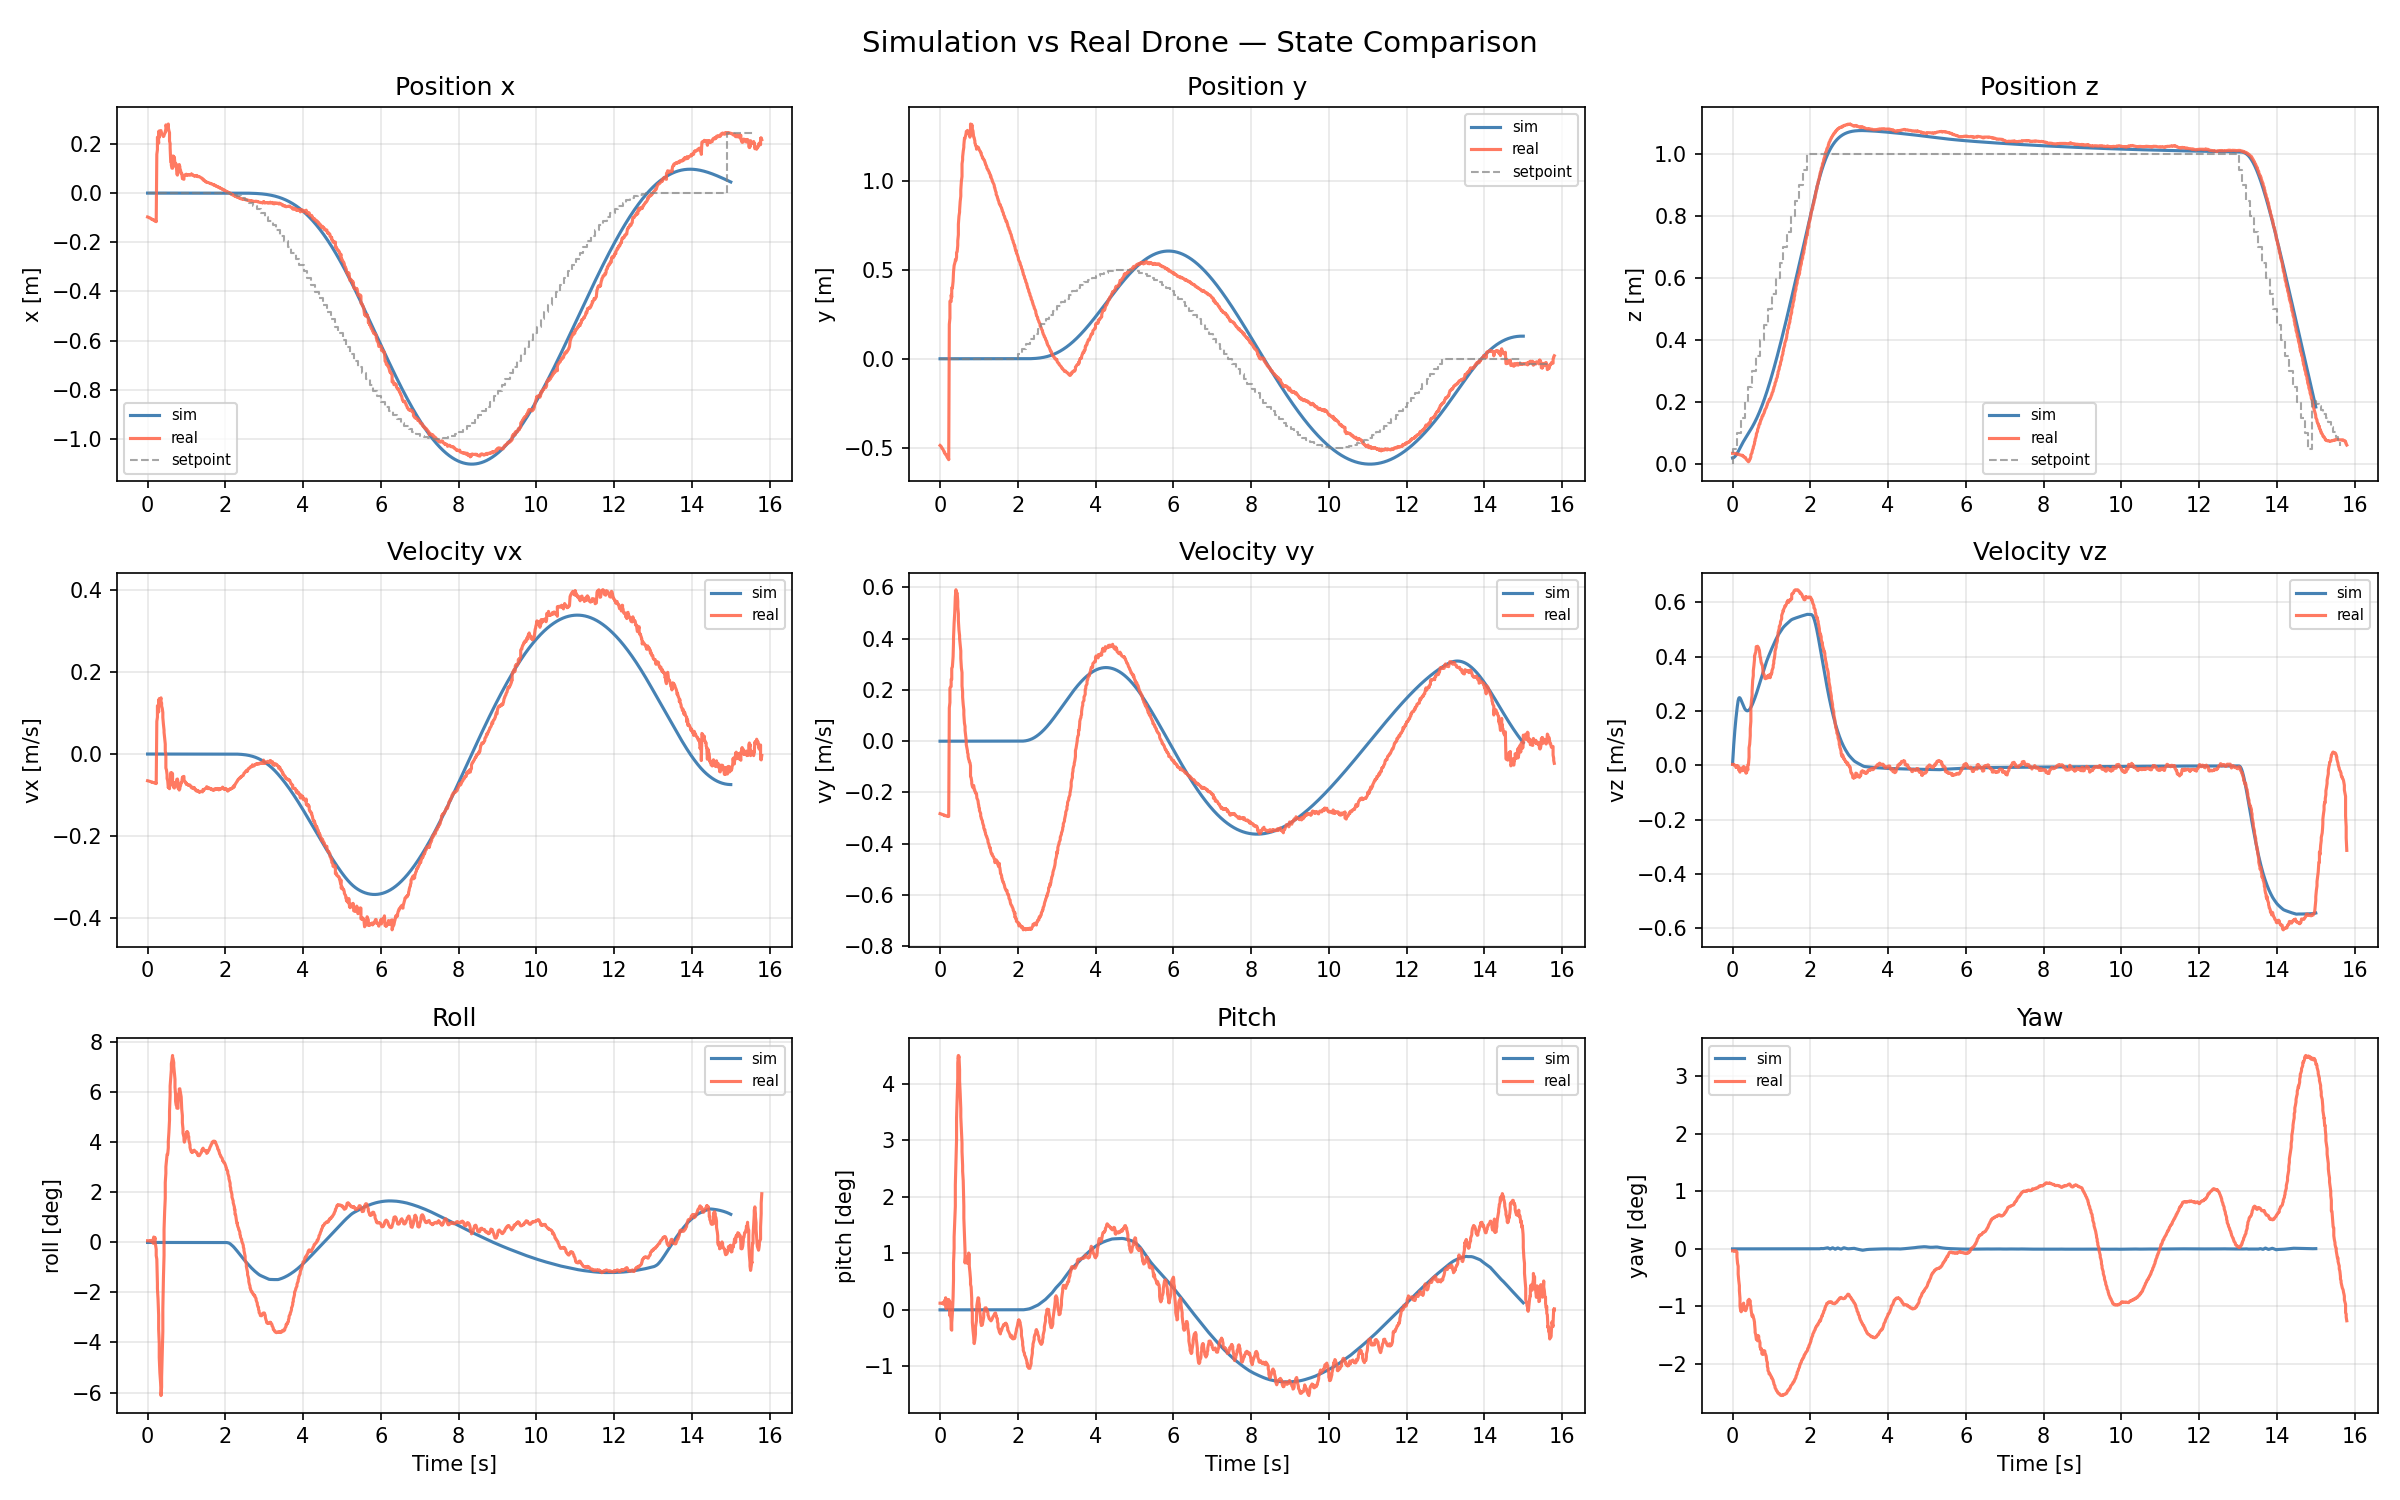
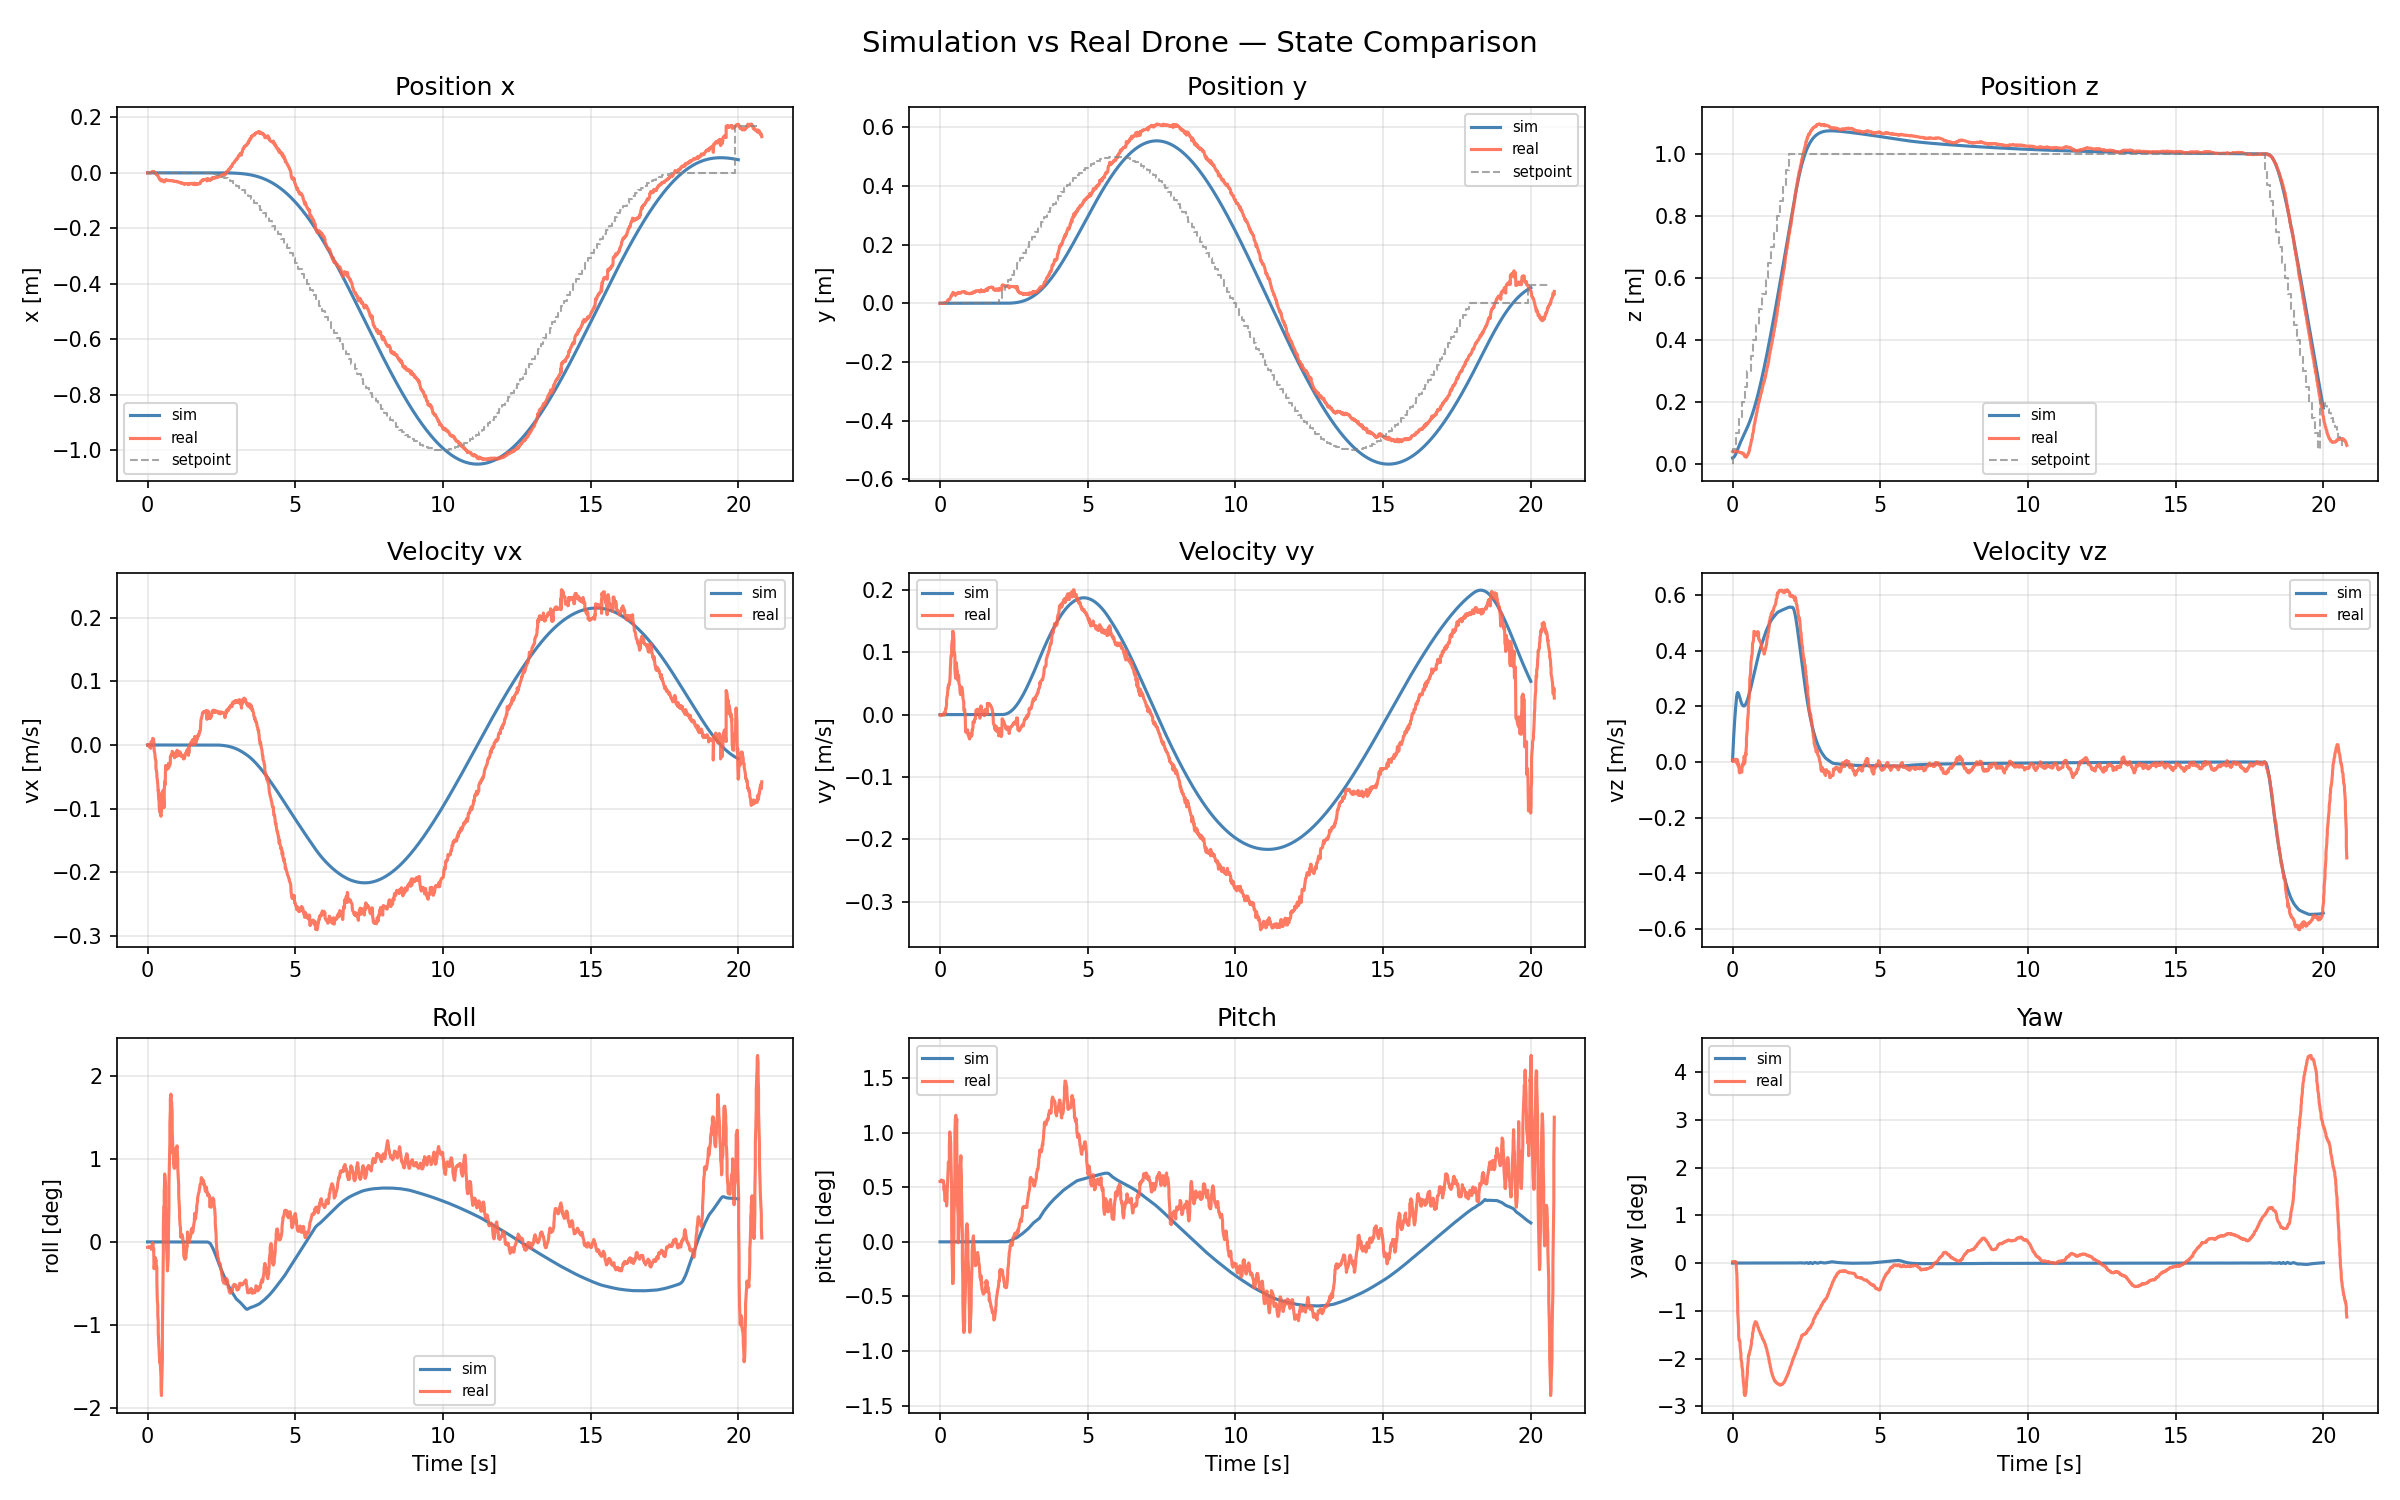
better weights

diff --git a/cf_firmware_pid_sim.py b/cf_firmware_pid_sim.py
@@ -108,8 +108,8 @@ PID_VEL_Z_KP = 25.0;  PID_VEL_Z_KI = 15.0; PID_VEL_Z_KD = 0.0;  PID_VEL_Z_KFF = 
 
 # ---- Position PID gains  -----------------------------------------
 # [FW] platform_defaults_cf2.h:158-176
-PID_POS_X_KP = 1.5;  PID_POS_X_KI = 0.0;  PID_POS_X_KD = 0.0;  PID_POS_X_KFF = 0.0
-PID_POS_Y_KP = 1.5;  PID_POS_Y_KI = 0.0;  PID_POS_Y_KD = 0.0;  PID_POS_Y_KFF = 0.0
+PID_POS_X_KP = 1.0;  PID_POS_X_KI = 0.0;  PID_POS_X_KD = 0.0;  PID_POS_X_KFF = 0.0
+PID_POS_Y_KP = 1.0;  PID_POS_Y_KI = 0.0;  PID_POS_Y_KD = 0.0;  PID_POS_Y_KFF = 0.0
 PID_POS_Z_KP = 2.0;  PID_POS_Z_KI = 0.5;  PID_POS_Z_KD = 0.0;  PID_POS_Z_KFF = 0.0
 
 # ---- Velocity / position limits  ---------------------------------
@@ -1689,8 +1689,8 @@ MODES:
     parser.add_argument('--mode', default='sim',
                         choices=['sim', 'attitude', 'rate', 'position'],
                         help='Control mode (default: sim)')
-    parser.add_argument('--duration', default=15, type=float,
-                        help='Flight duration in seconds (default: 15)')
+    parser.add_argument('--duration', default=20, type=float,
+                        help='Flight duration in seconds (default: 20)')
     parser.add_argument('--height', default=1.0, type=float,
                         help='Hover height in meters (default: 1.0)')
     parser.add_argument('--radius', default=0.5, type=float,
